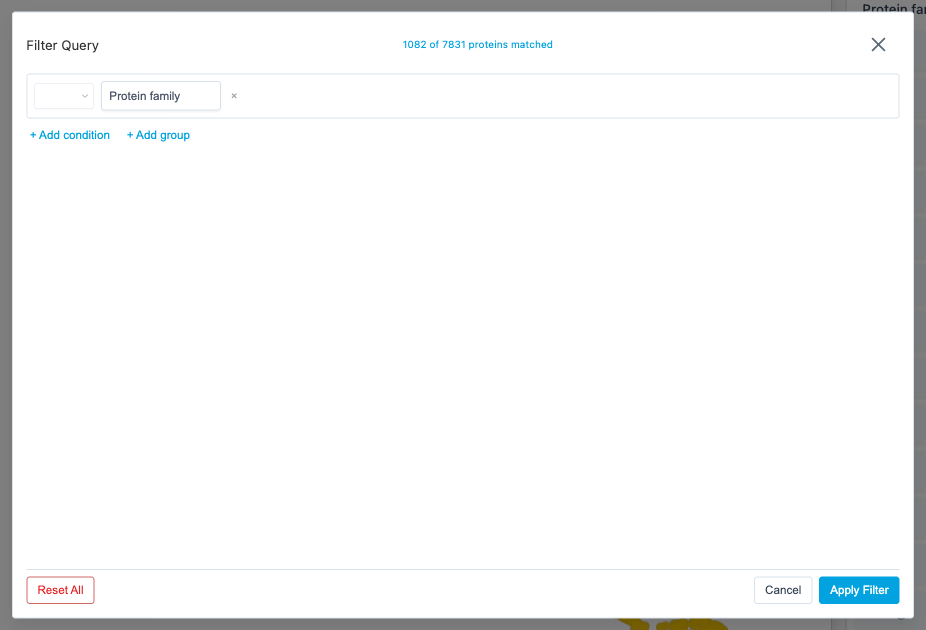
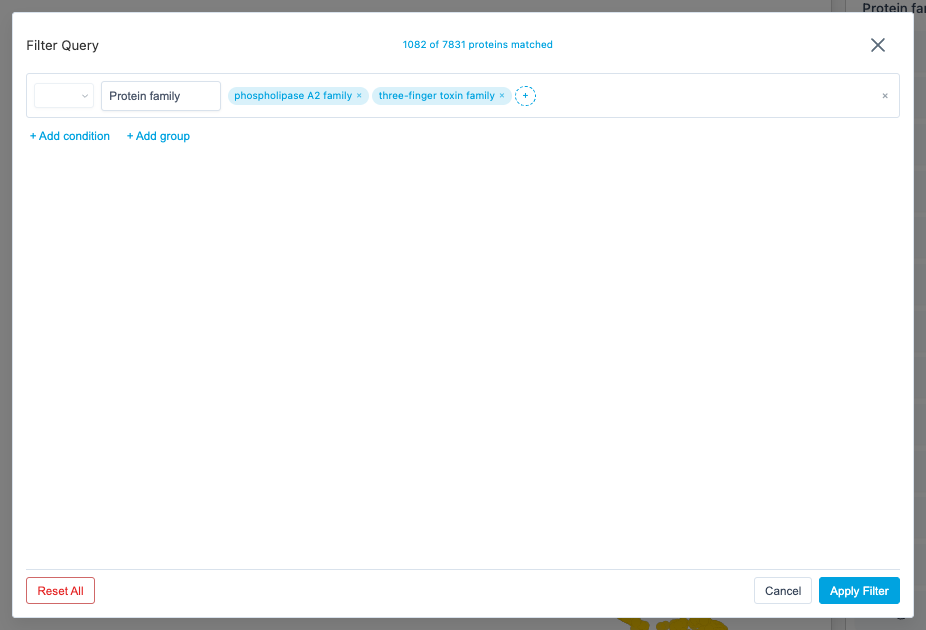
fix(docs-screenshots): show the filter example's value chips
The filter screenshot seeded its example condition as
`{ id, annotation, values }`, a shape from before conditions carried a
`kind`. Query evaluation treats anything non-numeric as categorical, so
the counter still read "1082 of 7831 proteins matched", but the condition
row only draws value chips for `kind: 'categorical'`, so the published
image showed an annotation with no values. The script's `unknown[]` cast
let the type check miss it.

The example condition now has its `kind`, and the capture waits until
the row shows one chip per example value, so the screenshot can no longer
be taken without them (checked: dropping `kind` fails the capture). Also
recaptures the image and fixes its alt text, which still named the
column `protein_families`.

Claude-Session: https://claude.ai/code/session_01BWSKespGU1ydMvHVs5pfmh

diff --git a/scripts/docs-screenshots/capture-static.spec.ts b/scripts/docs-screenshots/capture-static.spec.ts
@@ -633,20 +633,27 @@ test.describe('Control Bar Screenshots', () => {
     // Pre-populate the filter query so the modal opens with a meaningful state.
     // Pick the first annotation and its first two unique non-null values from
     // the currently loaded data — keeps the test independent of the dataset.
-    await page.evaluate(() => {
+    const exampleValueCount = await page.evaluate(() => {
       const cb = document.querySelector('#myControlBar') as
         | (HTMLElement & {
             annotations: string[];
             _currentData?: {
               annotations?: Record<string, { values: (string | null)[] }>;
             };
-            filterQuery: unknown[];
+            // `kind` decides how a condition row renders: without it the row
+            // draws no value chips, though the query still filters by them.
+            filterQuery: {
+              id: string;
+              kind: 'categorical';
+              annotation: string;
+              values: string[];
+            }[];
             requestUpdate: () => void;
           })
         | null;
-      if (!cb) return;
+      if (!cb) throw new Error('filter capture needs #myControlBar');
       const ann = cb.annotations?.[0];
-      if (!ann) return;
+      if (!ann) throw new Error('filter capture needs at least one annotation');
       const raw = cb._currentData?.annotations?.[ann]?.values ?? [];
       const seen = new Set<string>();
       const unique: string[] = [];
@@ -657,8 +664,10 @@ test.describe('Control Bar Screenshots', () => {
         unique.push(v);
         if (unique.length === 2) break;
       }
-      cb.filterQuery = [{ id: 'q-demo-1', annotation: ann, values: unique }];
+      if (unique.length === 0) throw new Error(`filter capture found no values for ${ann}`);
+      cb.filterQuery = [{ id: 'q-demo-1', kind: 'categorical', annotation: ann, values: unique }];
       cb.requestUpdate();
+      return unique.length;
     });
 
     // Open the filter modal via the same path the user clicks.
@@ -684,6 +693,18 @@ test.describe('Control Bar Screenshots', () => {
         return !!cb?.shadowRoot?.querySelector('.query-builder-modal');
       },
       undefined,
+      { timeout: 5_000, polling: 200 },
+    );
+    // The example condition must show its values as chips; a condition the row
+    // cannot render still filters, so the match counter alone proves nothing.
+    await page.waitForFunction(
+      (expected) => {
+        const cb = document.querySelector('#myControlBar');
+        const qb = cb?.shadowRoot?.querySelector('protspace-query-builder');
+        const row = qb?.shadowRoot?.querySelector('protspace-query-condition-row');
+        return (row?.shadowRoot?.querySelectorAll('.value-chip').length ?? 0) === expected;
+      },
+      exampleValueCount,
       { timeout: 5_000, polling: 200 },
     );
     // Let the query builder finish first paint and resolve match counts.

diff --git a/docs/explore/control-bar.md b/docs/explore/control-bar.md
@@ -134,7 +134,7 @@ Isolate is useful for examining relationships within a specific protein subset -
 
 ## 7. Filter Button
 
-![Filter Query modal with a single condition: protein_families equal to "phospholipase A2 family" or "three-finger toxin family", a live counter shows 1082 of 7831 proteins matched](./images/filter-query-builder.png)
+![Filter Query modal with a single condition: Protein family equal to "phospholipase A2 family" or "three-finger toxin family", a live counter shows 1082 of 7831 proteins matched](./images/filter-query-builder.png)
 
 **Filter** opens a query builder modal for building complex annotation-based filters:
 
